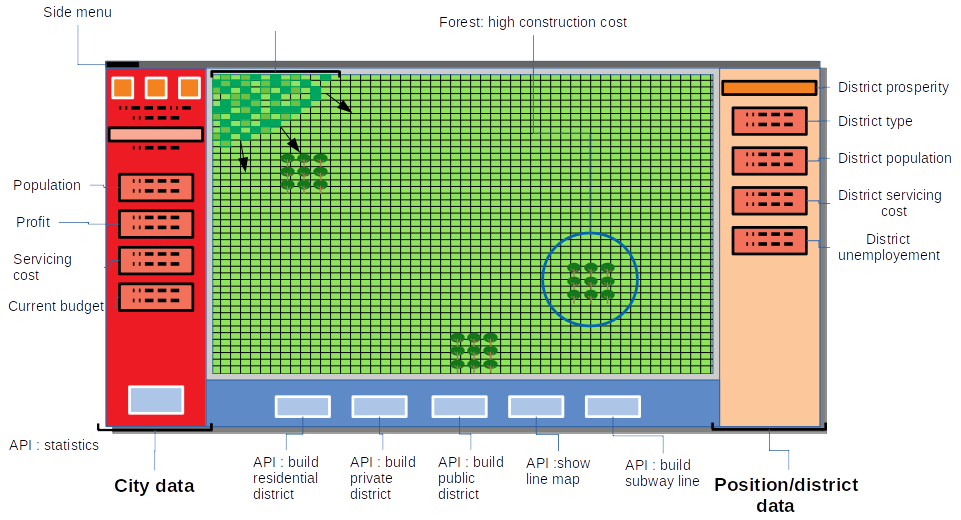
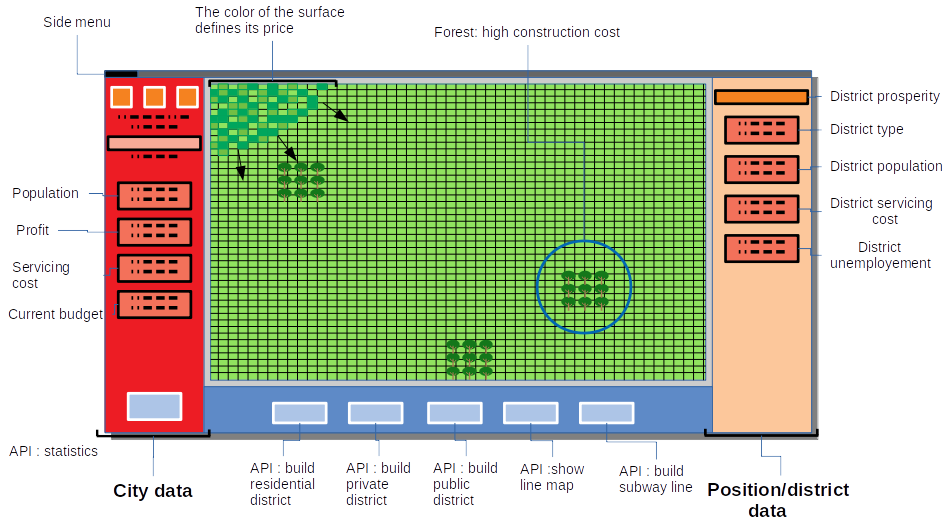
Added

diff --git a/src/gui/frame/MainFrame.java b/src/gui/frame/MainFrame.java
@@ -25,6 +25,7 @@ import city.District;
 import city.PrivateDistrict;
 import city.PublicDistrict;
 import city.ResidentialDistrict;
+import economy.EcoData;
 import economy.EconomyManager;
 import engine.GridParameters;
 import engine.Simulation;
@@ -43,6 +44,7 @@ import used.Random;
  * @see PanelPrivStat {@link PanelPrivStat}
  * @see PanelScore {@link PanelScore}
  *
+ *@author CHEF, MOA RVR
  */
 public class MainFrame extends JFrame implements Runnable {
 
@@ -235,18 +237,20 @@ public class MainFrame extends JFrame implements Runnable {
 					// pStat.setposLabel("Position de ce quartier : " + position);
 					if (scene.getGrid().getBoxAt(position.getOrdonne(), position.getAbscisse()).getGroundType()
 							.isContainsTree()) {
+						pStat.setLabelDistrict(1,
+								"Prix de la zone :"+scene.getGrid().getBoxAt(position.getOrdonne(), position.getAbscisse()).getGroundType()
+										.getDegre() * EcoData.CONST_DISTRICT * 4);
 						// pStat.setPriceInformation("Prix de la zone : "
 						// + scene.getGrid().getBoxAt(position.getOrdonne(), position.getAbscisse())
 						// .getGroundType().getDegre() * EcoData.CONST_DISTRICT * 4);
 
 					} else {
-						// pStat.setPriceInformation("Prix de la zone : "
-						// + scene.getGrid().getBoxAt(position.getOrdonne(), position.getAbscisse())
-						// .getGroundType().getDegre() * EcoData.CONST_DISTRICT);
-
+						pStat.setLabelDistrict(1,
+								"Prix de la zone :"+scene.getGrid().getBoxAt(position.getOrdonne(), position.getAbscisse()).getGroundType()
+										.getDegre() * EcoData.CONST_DISTRICT);
 					}
 					// pStat.setTypeLabel("Pas de type de quartier");
-					 getContentPane().add(pStat);
+					getContentPane().add(pStat);
 					/*
 					 * In a nutshell, the user gotta pay a price if the place isn't free and have an
 					 * obstacle
@@ -323,16 +327,18 @@ public class MainFrame extends JFrame implements Runnable {
 		updateDensity();
 		updateServicing();
 		updateProsperityBar();
+
 		if (pScore.getProsperityBar().getValue() >= 90) {
 			stop = true;
 			scene.win();
-		}else if(pScore.getProsperityBar().getValue()<=15 || general_economy.getBudget() <=10) {
-			stop=true;
+		} else if (pScore.getProsperityBar().getValue() <= 15 || general_economy.getBudget() <= 10) {
+			stop = true;
 			scene.game_over();
 		}
 		scene.updateUI();
 		scene.repaint();
 	}
+
 	public void updateTime() {
 		TimeSimulator timeSim = city.getTimeSimulator();
 		timeSim.update();
@@ -417,4 +423,5 @@ public class MainFrame extends JFrame implements Runnable {
 
 		}
 	}
+
 }

diff --git a/src/gui/frame/Scene.java b/src/gui/frame/Scene.java
@@ -12,6 +12,7 @@ import java.util.logging.Logger;
 
 import javax.swing.BorderFactory;
 import javax.swing.ImageIcon;
+import javax.swing.JButton;
 import javax.swing.JLabel;
 import javax.swing.JPanel;
 import javax.swing.Timer;
@@ -24,13 +25,15 @@ import city.SubwayLine;
 import engine.GridParameters;
 import grid.Grid;
 import gui.fontElements.Fonts;
+import gui.menu.LauncherMenu;
+import gui.menu.PanelMenu;
 import used.Point;
 
 /**
  * Allow to manage the map and build it with some sprites with paintComponent
  * method.
  * 
- * @author l1k1
+ * @author CHEF, MOA
  *
  */
 public class Scene extends JPanel {
@@ -46,6 +49,8 @@ public class Scene extends JPanel {
 	private JLabel game_over = new JLabel("GAME OVER");
 	private JLabel win = new JLabel("YOU WIN");
 
+	private JButton restart = new JButton("Restart");
+	
 	public Scene() {
 		super();
 		setPreferredSize(new Dimension(GridParameters.WIDTH * 28, GridParameters.HEIGHT * 28));
@@ -72,10 +77,12 @@ public class Scene extends JPanel {
 		};
 		Timer t1 = new Timer(delay, taskPerformer);
 		t1.start();
+		restart.setBounds(200,200,200,100);
 		game_over.setBounds(50,50,200,200);
 		win.setBounds(50, 50, 200, 200);
 		game_over.setFont(Fonts.getF4().deriveFont(150.0f));
 		win.setFont(Fonts.getF4().deriveFont(150.0f));
+
 	}
 	public void game_over() {
 		add(game_over);

diff --git a/src/gui/frame/PanelPrivStat.java b/src/gui/frame/PanelPrivStat.java
@@ -40,8 +40,8 @@ public class PanelPrivStat extends JPanel {
 
 		setBorder(BorderFactory.createEtchedBorder());
 
-		JLabel[] infoDistrict = { new JLabel("District Prosperity", JLabel.CENTER), new JLabel("1"), new JLabel("2"),
-				new JLabel("3"), new JLabel("4"), new JLabel("5"), new JLabel("6"), new JLabel("7"), new JLabel("8") };
+		JLabel[] infoDistrict = { new JLabel("District Prosperity", JLabel.CENTER), new JLabel(""), new JLabel(""),
+				new JLabel(""), new JLabel(""), new JLabel(""), new JLabel(""), new JLabel(""), new JLabel("") };
 		JPanel[] tabCells = { new JPanel(), new JPanel(), new JPanel(), new JPanel(), new JPanel(), new JPanel(),
 				new JPanel(), new JPanel(), new JPanel() };
 
